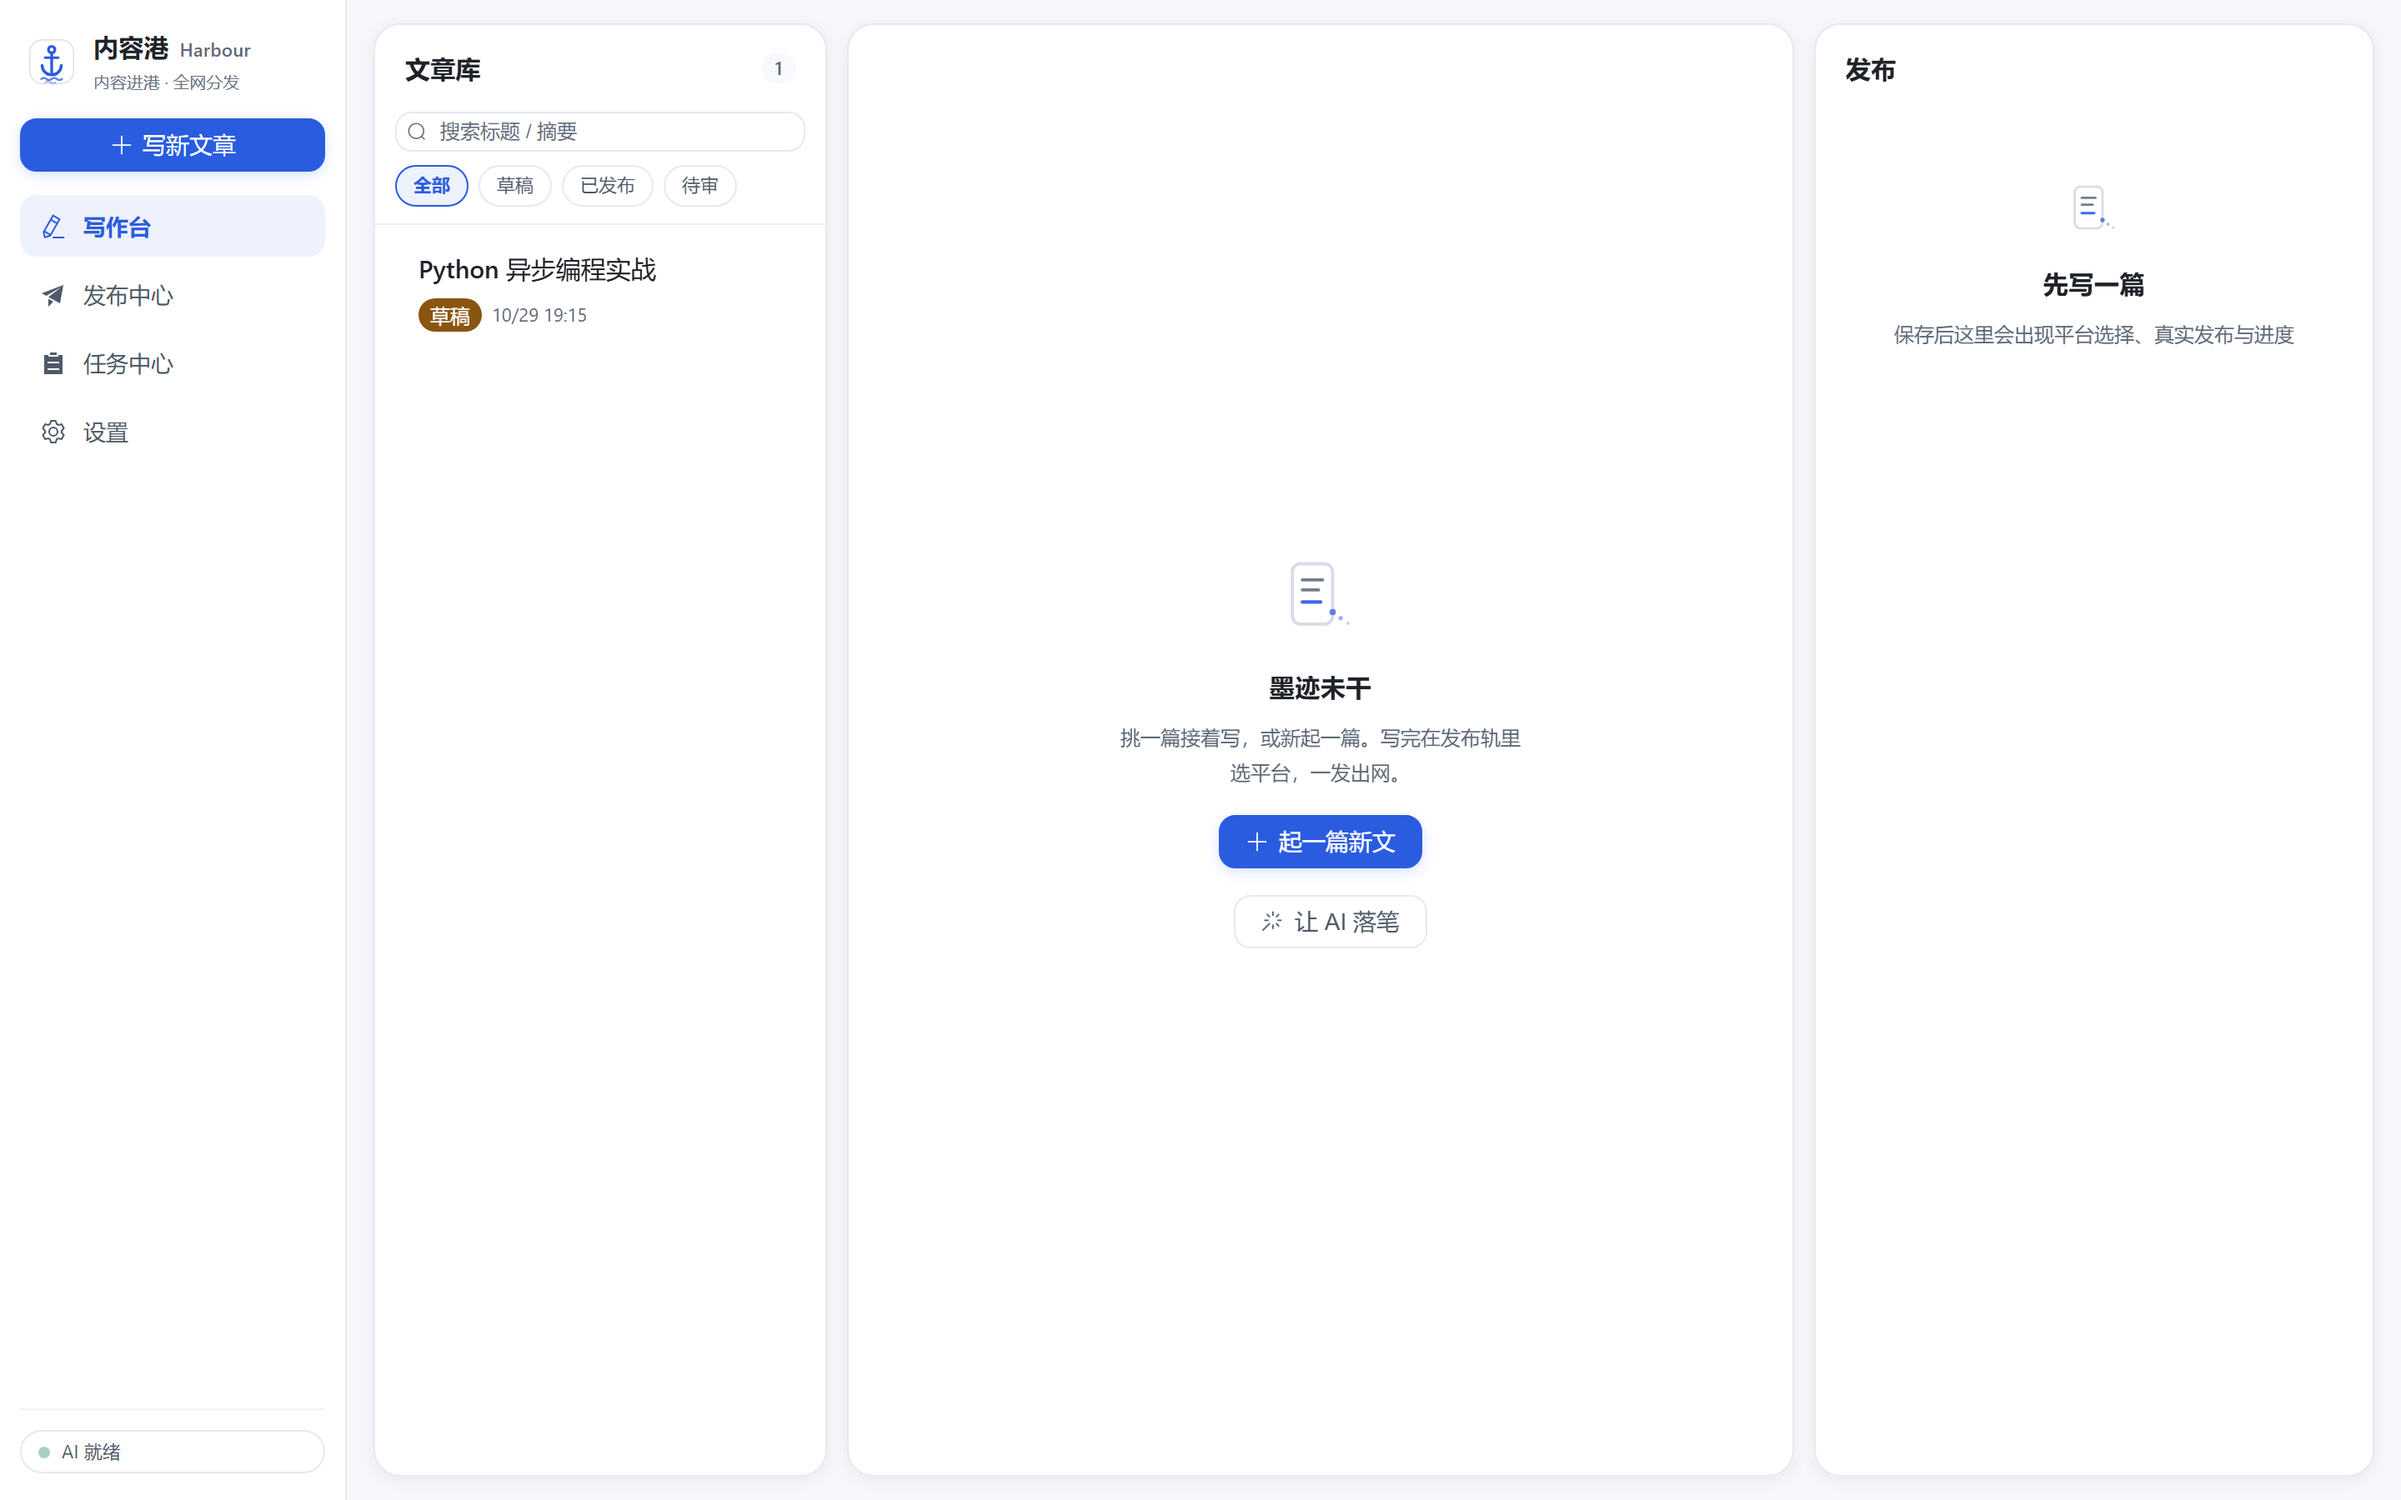
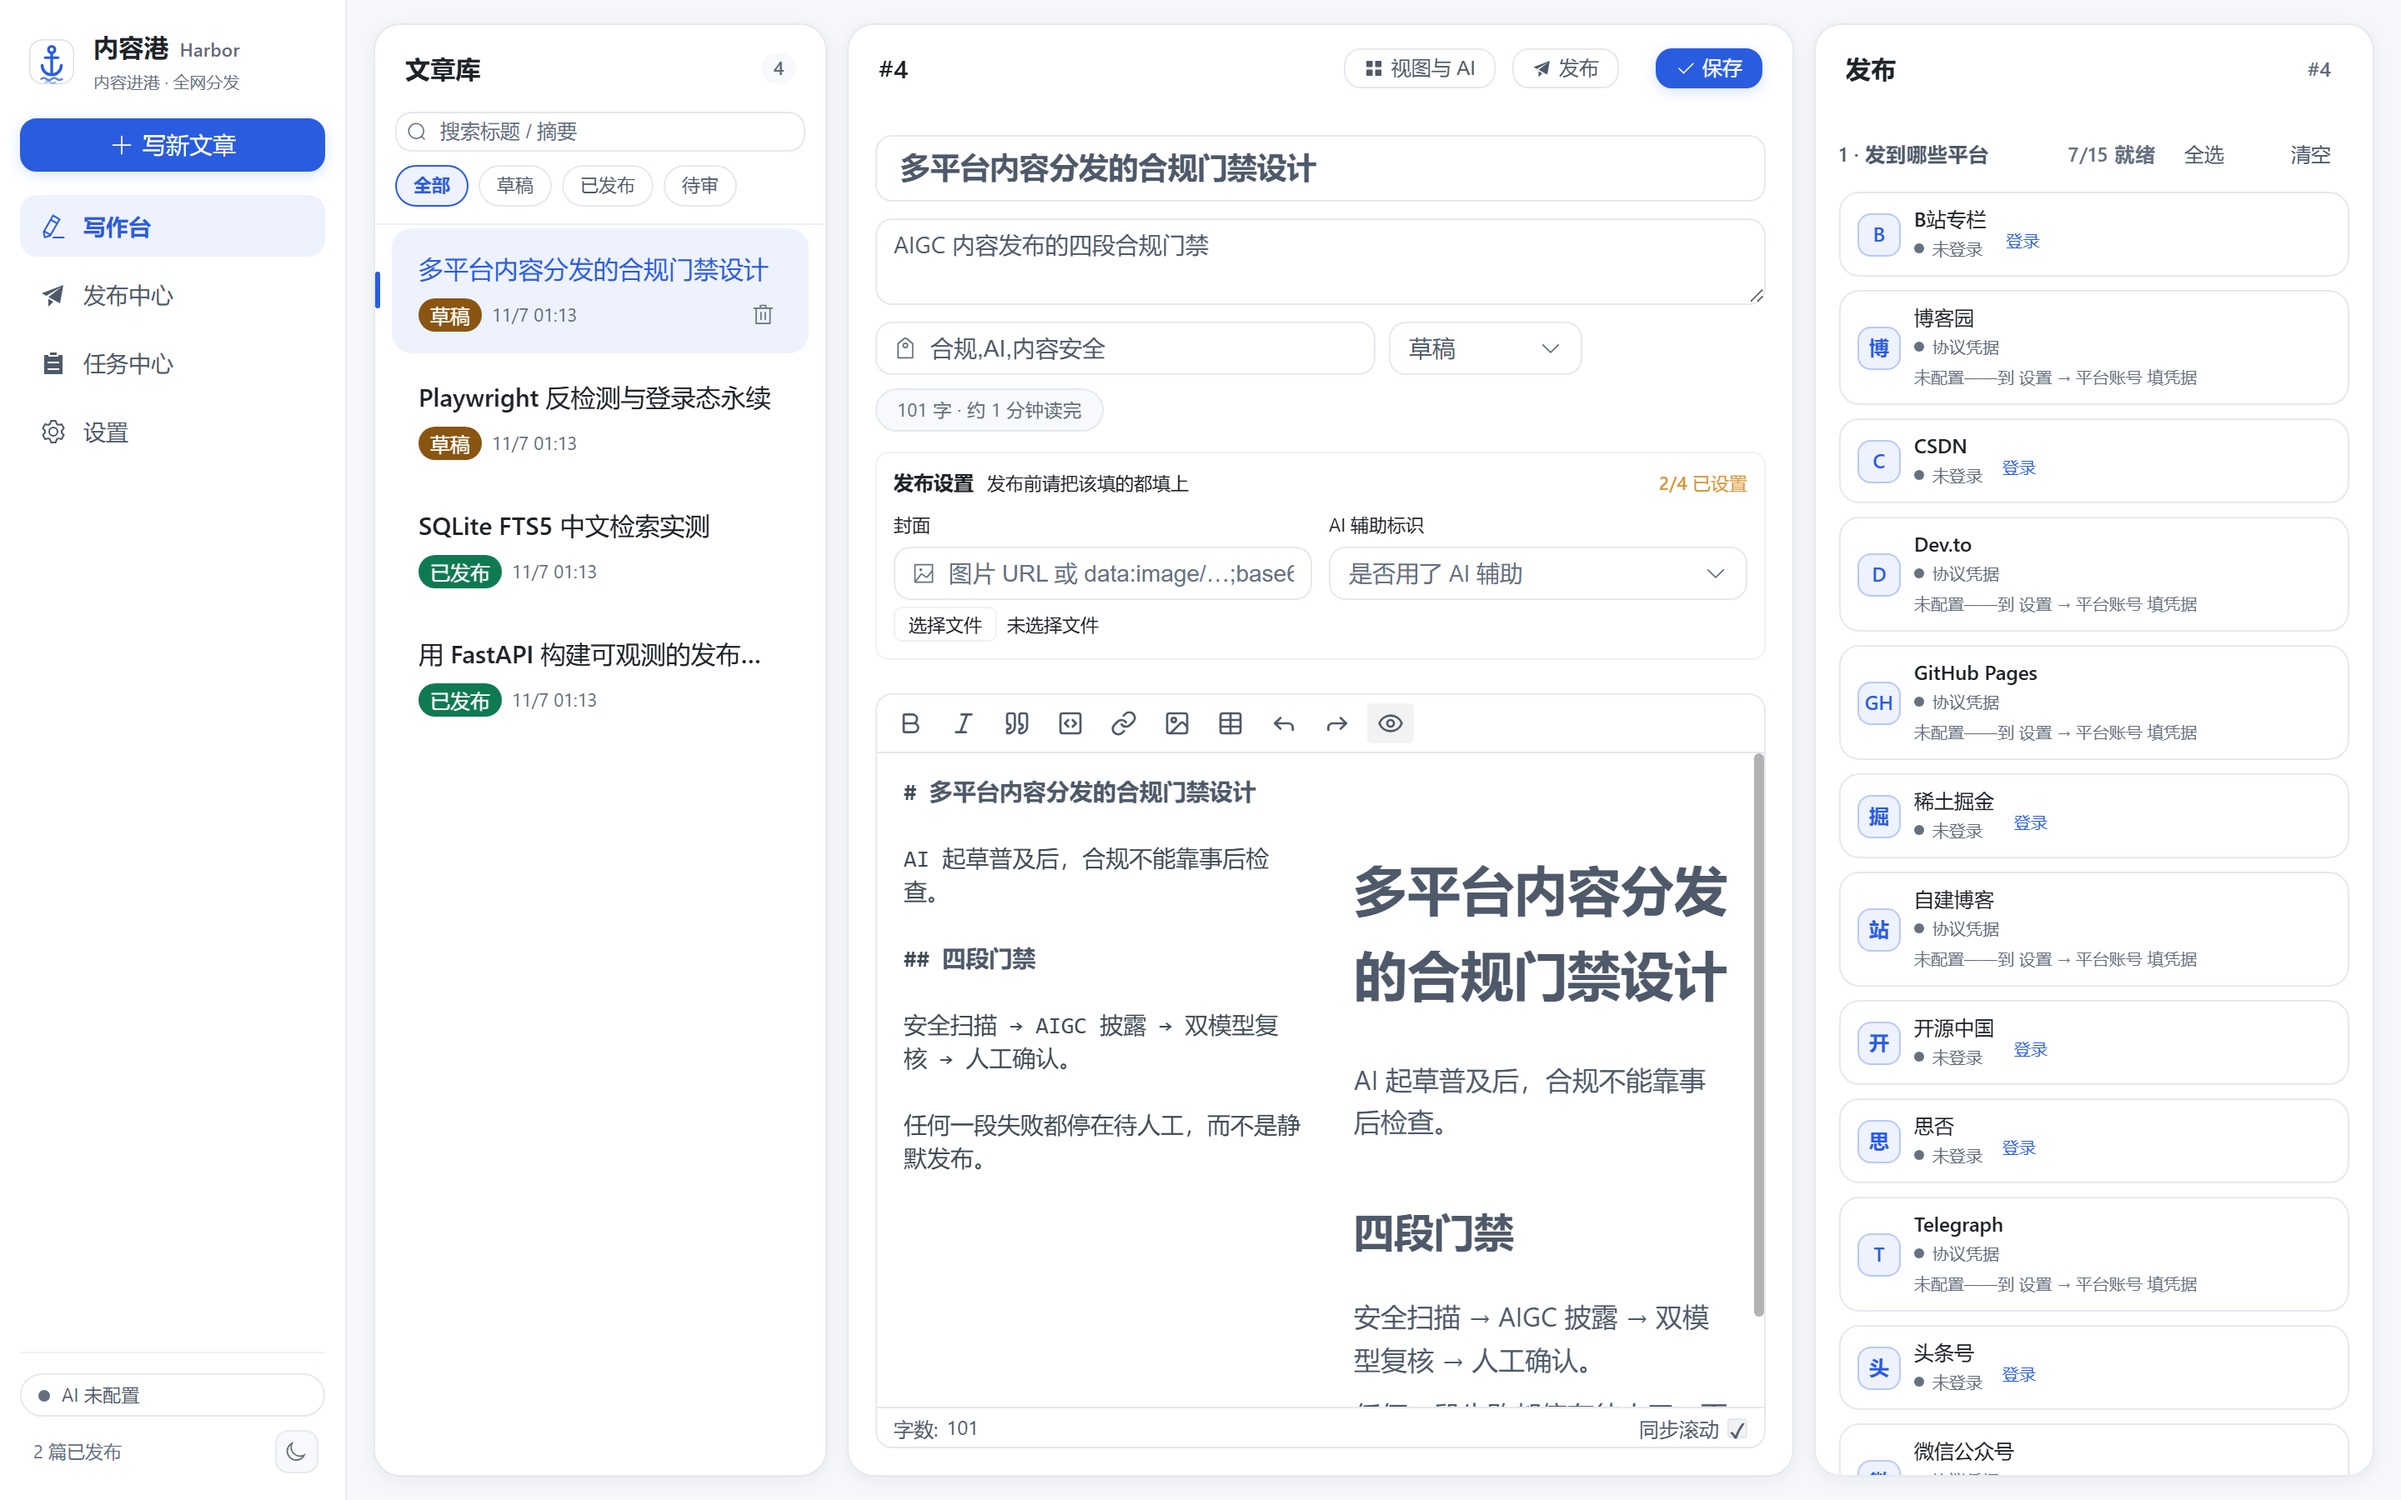
fix(ai): /ai/config 的 ready 与 provider 可用性统一口径
ready 原来取 bool(resolved)：Ollama 无密钥恒被解析出来，服务未运行时
仍报 ready=true，UI 于是同时显示「AI 已就绪」与「所有 provider 不可用」。
改为至少一个 provider 真正可用；自定义 provider 补 requires_local_service。

实测：重启后 /ai/config 与 /ai/status 均返回 ready=false，侧栏显示「AI 未配置」。
门禁：后端 569 passed、前端 77 passed、八道全绿。

diff --git a/backed/service/publishing/ai_config.py b/backed/service/publishing/ai_config.py
@@ -135,10 +135,15 @@ def get_ai_config() -> dict:
             "price_level": ov.get("price_level", "standard"),
             "key_set": bool(effective), "key_masked": mask_key(effective),
             "key_source": "env" if env_key else ("config" if file_key else "none"),
-            "available": key in resolved, "custom": True,
+            "available": live_ok if key == "ollama" else (key in resolved),
+            "requires_local_service": key == "ollama", "custom": True,
         })
 
     legacy_key = os.environ.get("AI_API_KEY", "").strip() or (cfg.get("AI_API_KEY") or "").strip()
+    # ready 不能只看"有没有解析出 provider"：Ollama 无密钥恒被解析出来，
+    # 服务没起时会让 UI 同时出现"AI 已就绪"与"所有 provider 都不可用"。
+    # 这里与 /ai/status 用同一口径——至少一个 provider 真的可用。
+    any_available = any(p.get("available") for p in items)
     return {
         "providers": items,
         "routing": ai_providers.TASK_ROUTING,
@@ -158,7 +163,7 @@ def get_ai_config() -> dict:
             "file": str(ai_mod.style_file()),
             "loaded": bool(ai_mod.load_style()),
         },
-        "ready": bool(resolved),
+        "ready": any_available,
     }
 
 

diff --git a/backed/tests/test_ai_readiness.py b/backed/tests/test_ai_readiness.py
@@ -66,3 +66,21 @@ def test_list_providers_remote_provider_is_available(monkeypatch):
     row = prov.list_providers()[0]
     assert row["available"] is True
     assert row["requires_local_service"] is False
+
+
+def test_ai_config_ready_false_when_all_unavailable(monkeypatch, tmp_path):
+    """配置存在但全都连不上时，/ai/config 的 ready 必须是 False。
+
+    回归：ready 原来取 bool(resolved)，Ollama 无密钥恒被解析出来，
+    于是 UI 同时显示"AI 已就绪"和"所有 provider 不可用"。
+    """
+    from service.publishing import ai_config as cfg_mod
+    monkeypatch.setattr(cfg_mod.ai_providers, "_resolve_providers", lambda: {
+        "ollama": {"key": "ollama", "name": "Ollama", "base_url": "http://localhost:11434/v1",
+                   "models": [], "default_model": "", "price_level": "economy",
+                   "api_key": "ollama"},
+    })
+    monkeypatch.setattr(cfg_mod.ai_providers, "_probe_local_ollama", lambda url, timeout=0.8: False)
+    cfg = cfg_mod.get_ai_config()
+    assert cfg["ready"] is False
+    assert all(p["available"] is False for p in cfg["providers"] if p["key"] == "ollama")
